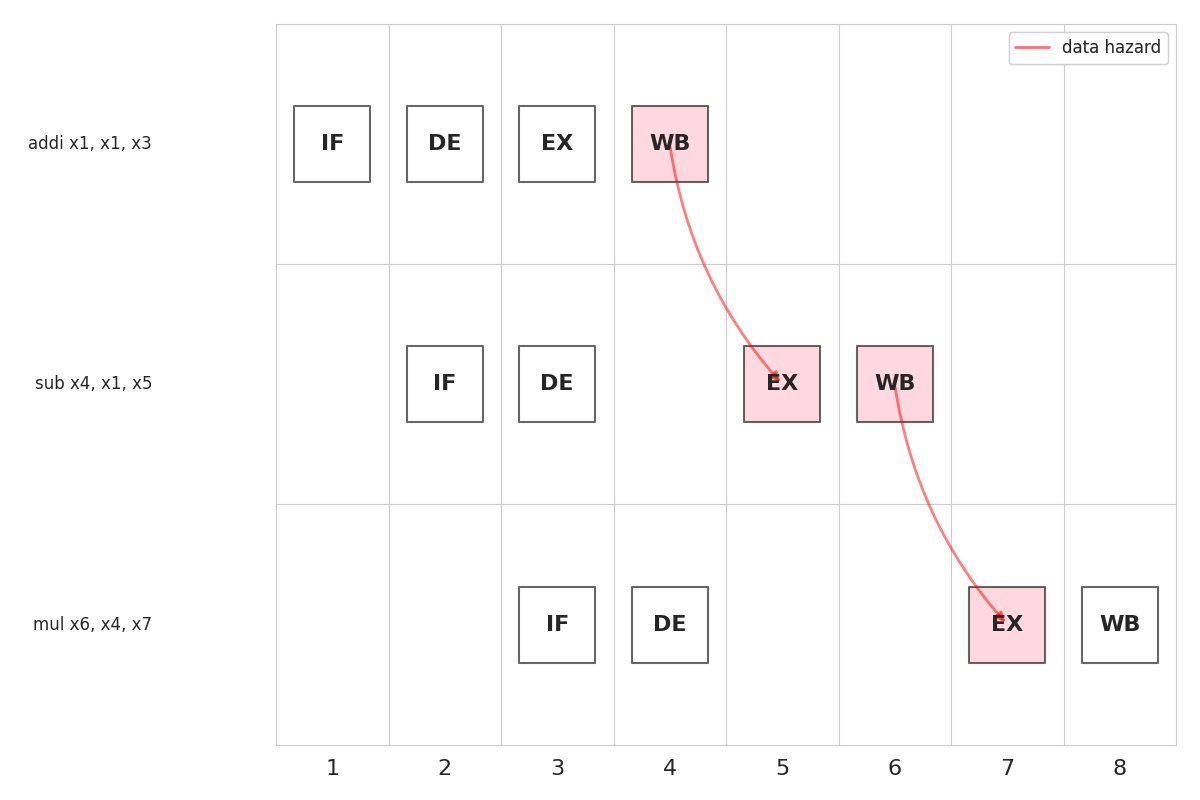
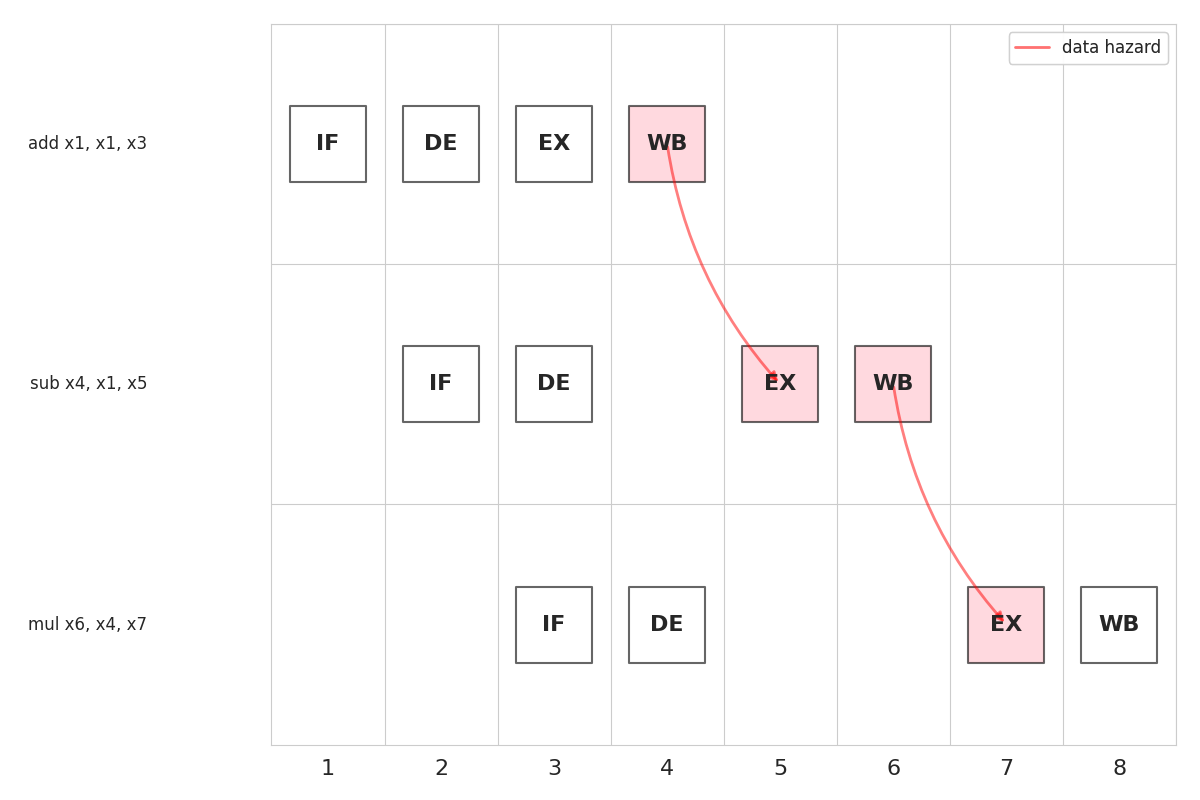
fix: readme

diff --git a/main.py b/main.py
@@ -34,7 +34,7 @@ def example_program():
     p = bp.Pipeline()
 
     # Three instructions
-    insns = [bp.Op("addi x1, x1, x3"),
+    insns = [bp.Op("add x1, x1, x3"),
              bp.Op("sub x4, x1, x5"),  # depends on x1 from i0
              bp.Op("mul x6, x4, x7")]  # depends on x4 from i1
 

diff --git a/README.md b/README.md
@@ -108,7 +108,7 @@ from bagpype import Pipeline, Op, Edge
 p = bp.Pipeline()
 
 # Three instructions
-insns = [bp.Op("addi x1, x1, x3"),
+insns = [bp.Op("add x1, x1, x3"),
             bp.Op("sub x4, x1, x5"),  # depends on x1 from i0
             bp.Op("mul x6, x4, x7")]  # depends on x4 from i1
 
